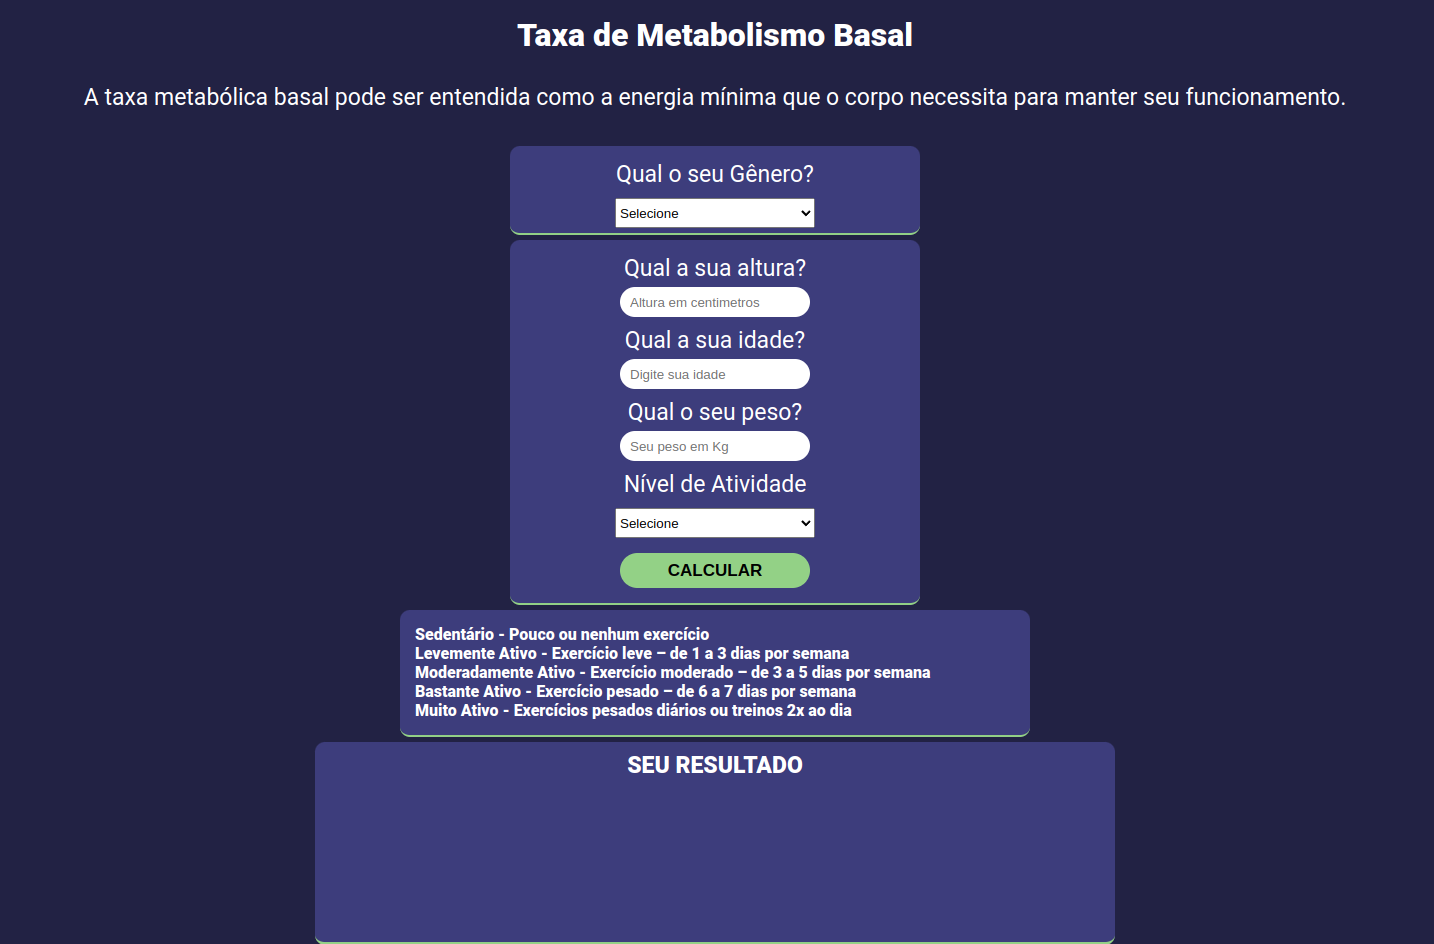
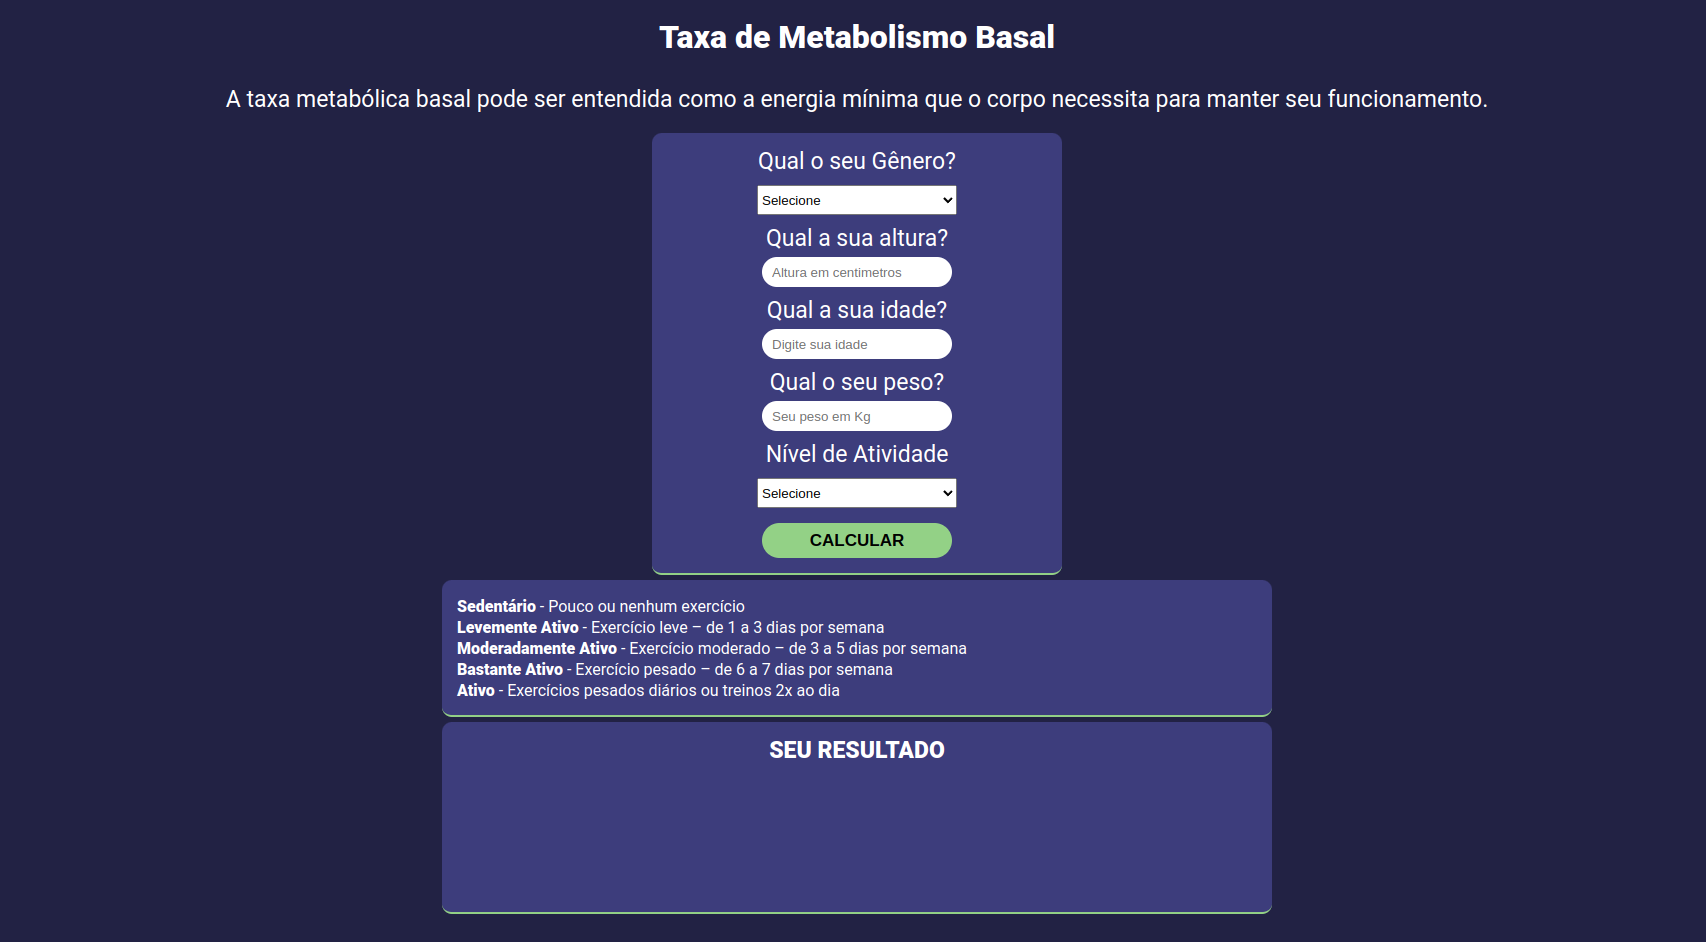
ajustes-de-calculo

Changed region(s): [[0.0614, 0.0924, 0.9512, 1.0], [0.3682, 0.0308, 0.6444, 0.0616]]

diff --git a/script.js b/script.js
@@ -23,45 +23,35 @@ function atualizouSelect() {
     let muitoAtivoInfo = ("Muito Ativo - Exercícios pesados diários ou treinos 2x ao dia")
 
         if (text == "Masculino" && atividade == "Sedentário") {
-                resultado.innerHTML = "Sua taxa metabólica basal é de: " + Math.round(homem);
-                resultadoLine2.innerHTML = "Você precisa consumir " + Math.round(homem * 1.2) + " calorias diariamente para se manter saudável";
-                info.innerHTML = sedentarioInfo
+                resultado.innerHTML = "Sua taxa metabólica basal é de: " + Math.round(homem) + " calorias";
+                resultadoLine2.innerHTML = "Você precisa consumir " + Math.round(homem * 1.2) + " calorias diariamente para se manter saudável";               
             }else if (text == "Masculino" && atividade == "Levemente Ativo") {
-                resultado.innerHTML = "Sua taxa metabólica basal é de: " + Math.round(homem);
-                resultadoLine2.innerHTML = "Você precisa consumir " + Math.round(homem * 1.375) + " calorias diariamente para se manter saudável";
-                info.innerHTML =levementeAtivoInfo
+                resultado.innerHTML = "Sua taxa metabólica basal é de: " + Math.round(homem) + " calorias";
+                resultadoLine2.innerHTML = "Você precisa consumir " + Math.round(homem * 1.375) + " calorias diariamente para se manter saudável";                
             }else if(text == "Masculino" && atividade == "Moderadamente Ativo"){
-                resultado.innerHTML = "Sua taxa metabólica basal é de: " + Math.round(homem);
-                resultadoLine2.innerHTML = "Você precisa consumir " + Math.round(homem * 1.55) + " calorias diariamente para se manter saudável";
-                info.innerHTML = moderadamenteAtivoInfo
+                resultado.innerHTML = "Sua taxa metabólica basal é de: " + Math.round(homem) + " calorias";
+                resultadoLine2.innerHTML = "Você precisa consumir " + Math.round(homem * 1.55) + " calorias diariamente para se manter saudável";                
             }else if(text == "Masculino" && atividade == "Bastante Ativo"){
-                resultado.innerHTML = "Sua taxa metabólica basal é de: " + Math.round(homem);
-                resultadoLine2.innerHTML = "Você precisa consumir " + Math.round(homem * 1.725) + " calorias diariamente para se manter saudável";
-                info.innerHTML = bastanteAtivoInfo
+                resultado.innerHTML = "Sua taxa metabólica basal é de: " + Math.round(homem) + " calorias";
+                resultadoLine2.innerHTML = "Você precisa consumir " + Math.round(homem * 1.725) + " calorias diariamente para se manter saudável";               
             }else if(text == "Masculino" && atividade == "Muito Ativo"){
-                resultado.innerHTML = "Sua taxa metabólica basal é de: " + Math.round(homem);
-                resultadoLine2.innerHTML = "Você precisa consumir " + Math.round(homem * 1.9) + " calorias diariamente para se manter saudável";
-                info.innerHTML = muitoAtivoInfo
+                resultado.innerHTML = "Sua taxa metabólica basal é de: " + Math.round(homem) + " calorias";
+                resultadoLine2.innerHTML = "Você precisa consumir " + Math.round(homem * 1.9) + " calorias diariamente para se manter saudável";                
             }else if (text == "Feminino" && atividade == "Sedentário") {
-                resultado.innerHTML = "Sua taxa metabólica basal é de: " + Math.round(mulher);
-                resultadoLine2.innerHTML = "Você precisa consumir " + Math.round(mulher * 1.2) + " calorias diariamente para se manter saudável";
-                info.innerHTML = sedentarioInfo
+                resultado.innerHTML = "Sua taxa metabólica basal é de: " + Math.round(mulher) + " calorias";
+                resultadoLine2.innerHTML = "Você precisa consumir " + Math.round(mulher * 1.2) + " calorias diariamente para se manter saudável";               
             }else if (text == "Feminino" && atividade == "Levemente Ativo") {
-                resultado.innerHTML = "Sua taxa metabólica basal é de: " + Math.round(mulher);
-                resultadoLine2.innerHTML = "Você precisa consumir " + Math.round(mulher * 1.375) + " calorias diariamente para se manter saudável";
-                info.innerHTML =levementeAtivoInfo
+                resultado.innerHTML = "Sua taxa metabólica basal é de: " + Math.round(mulher) + " calorias";
+                resultadoLine2.innerHTML = "Você precisa consumir " + Math.round(mulher * 1.375) + " calorias diariamente para se manter saudável";               
             }else if (text == "Feminino" && atividade == "Moderadamente Ativo") {
-                resultado.innerHTML = "Sua taxa metabólica basal é de: " + Math.round(mulher);
-                resultadoLine2.innerHTML = "Você precisa consumir " + Math.round(mulher * 1.55) + " calorias diariamente para se manter saudável";
-                info.innerHTML = moderadamenteAtivoInfo
+                resultado.innerHTML = "Sua taxa metabólica basal é de: " + Math.round(mulher) + " calorias";
+                resultadoLine2.innerHTML = "Você precisa consumir " + Math.round(mulher * 1.55) + " calorias diariamente para se manter saudável";              
             }else if (text == "Feminino" && atividade == "Bastante Ativo") {
-                resultado.innerHTML = "Sua taxa metabólica basal é de: " + Math.round(mulher);
-                resultadoLine2.innerHTML = "Você precisa consumir " + Math.round(mulher * 1.725) + " calorias diariamente para se manter saudável";
-                info.innerHTML = bastanteAtivoInfo
+                resultado.innerHTML = "Sua taxa metabólica basal é de: " + Math.round(mulher) + " calorias";
+                resultadoLine2.innerHTML = "Você precisa consumir " + Math.round(mulher * 1.725) + " calorias diariamente para se manter saudável";                
             }else if (text == "Feminino" && atividade == "Muito Ativo") {
-                resultado.innerHTML = "Sua taxa metabólica basal é de: " + Math.round(mulher);
+                resultado.innerHTML = "Sua taxa metabólica basal é de: " + Math.round(mulher) + " calorias";
                 resultadoLine2.innerHTML = "Você precisa consumir " + Math.round(mulher * 1.9) + " calorias diariamente para se manter saudável";
-                info.innerHTML = muitoAtivoInfo
             }else {
                 alert("Gênero ou Nível de Atividade inválidos");
             } 

diff --git a/index.html b/index.html
@@ -14,8 +14,8 @@
             <h1>Taxa de Metabolismo Basal</h1>
             <p>A taxa metabólica basal pode ser entendida como a energia mínima que o corpo necessita para manter seu funcionamento.</p>
         </div>
-        
-        <div class="form">
+
+        <div class="dados">
             <label class="qualGenero" for="">Qual o seu Gênero?</label>
 
             <div class="inputs">
@@ -26,9 +26,6 @@
                     <option value="feminino">Feminino</option>
                 </select>
             </div>
-        </div>
-
-        <div class="dados">
             <label for="">Qual a sua altura?</label>
             <input placeholder="Altura em centimetros" type="number" id="altura">
             <label for="">Qual a sua idade?</label>
@@ -51,11 +48,11 @@
         </div>
 
         <div class="info">
-            <h4>Sedentário - Pouco ou nenhum exercício</h4>
-            <h4>Levemente Ativo - Exercício leve – de 1 a 3 dias por semana</h4>
-            <h4>Moderadamente Ativo - Exercício moderado – de 3 a 5 dias por semana</h4>
-            <h4>Bastante Ativo - Exercício pesado – de 6 a 7 dias por semana</h4>
-            <h4>Muito Ativo - Exercícios pesados diários ou treinos 2x ao dia</h4>
+            <h4><strong>Sedentário</strong> - Pouco ou nenhum exercício</h4>
+            <h4><strong>Levemente Ativo</strong> - Exercício leve – de 1 a 3 dias por semana</h4>
+            <h4><strong>Moderadamente Ativo</strong> - Exercício moderado – de 3 a 5 dias por semana</h4>
+            <h4><strong>Bastante Ativo</strong> - Exercício pesado – de 6 a 7 dias por semana</h4>
+            <h4><strong>Ativo</strong>  - Exercícios pesados diários ou treinos 2x ao dia</h4>
         </div>
 
         <div class="result">

diff --git a/style.css b/style.css
@@ -48,20 +48,6 @@ p, label{
     margin-bottom: 10px;
 }
 
-.form{
-    color: white;
-    display: flex;
-    justify-content: center;
-    align-items: center;
-    flex-direction: column;
-    margin-top: 30px;
-    background-color: #3d3d7c;
-    width: 400px;
-    border-bottom: solid 2px #93d186;
-    padding: 5px 5px;
-    border-radius: 10px;
-}
-
 .dados{
     display: flex;
     justify-content: center;
@@ -69,7 +55,7 @@ p, label{
     flex-direction: column;
     color: white;
     background-color: #3d3d7c;
-    margin-top: 5px;
+    margin-top: 15px;
     width: 400px;
     border-bottom: solid 2px #93d186;
     padding: 5px 5px;
@@ -128,26 +114,36 @@ button:hover{
     width: 800px;
     display: flex;
     align-items: center;
-    height: 200px;
+    height: 160px;
     border-radius: 10px;
-    border-bottom: solid 3px #93d186;
+    border-bottom: solid 2px #93d186;
     flex-direction: column;
     margin-top: 0px;
+    padding: 15px 15px;
+}
+
+.result h3{
+    margin-top: 10px;
 }
 
 .resultado{
     color: white;
-    margin-top: 10px;
-    font-weight: 600;
+    margin-top: 0px;
+    font-weight: 900;
 }
 
 h3{
     color: white;
-    margin-top: 20px;
+    margin-top: 0px;
+    font-weight: 200;
+}
+
+h4{
+    font-weight: 200;
 }
 
 #printResult{
-    margin-top: 30px;
+    margin-top: 20px;
 }
 
 .info{
@@ -157,9 +153,12 @@ h3{
     color: white;
     background-color: #3d3d7c;
     margin: 5px 5px;
-    padding: 10px 10px;
-    width: 600px;
+    width: 800px;
     border-bottom: solid 2px #93d186;
     padding: 15px 15px;
     border-radius: 10px;
+}
+
+.info h4{
+    margin-top: 2px;
 }
